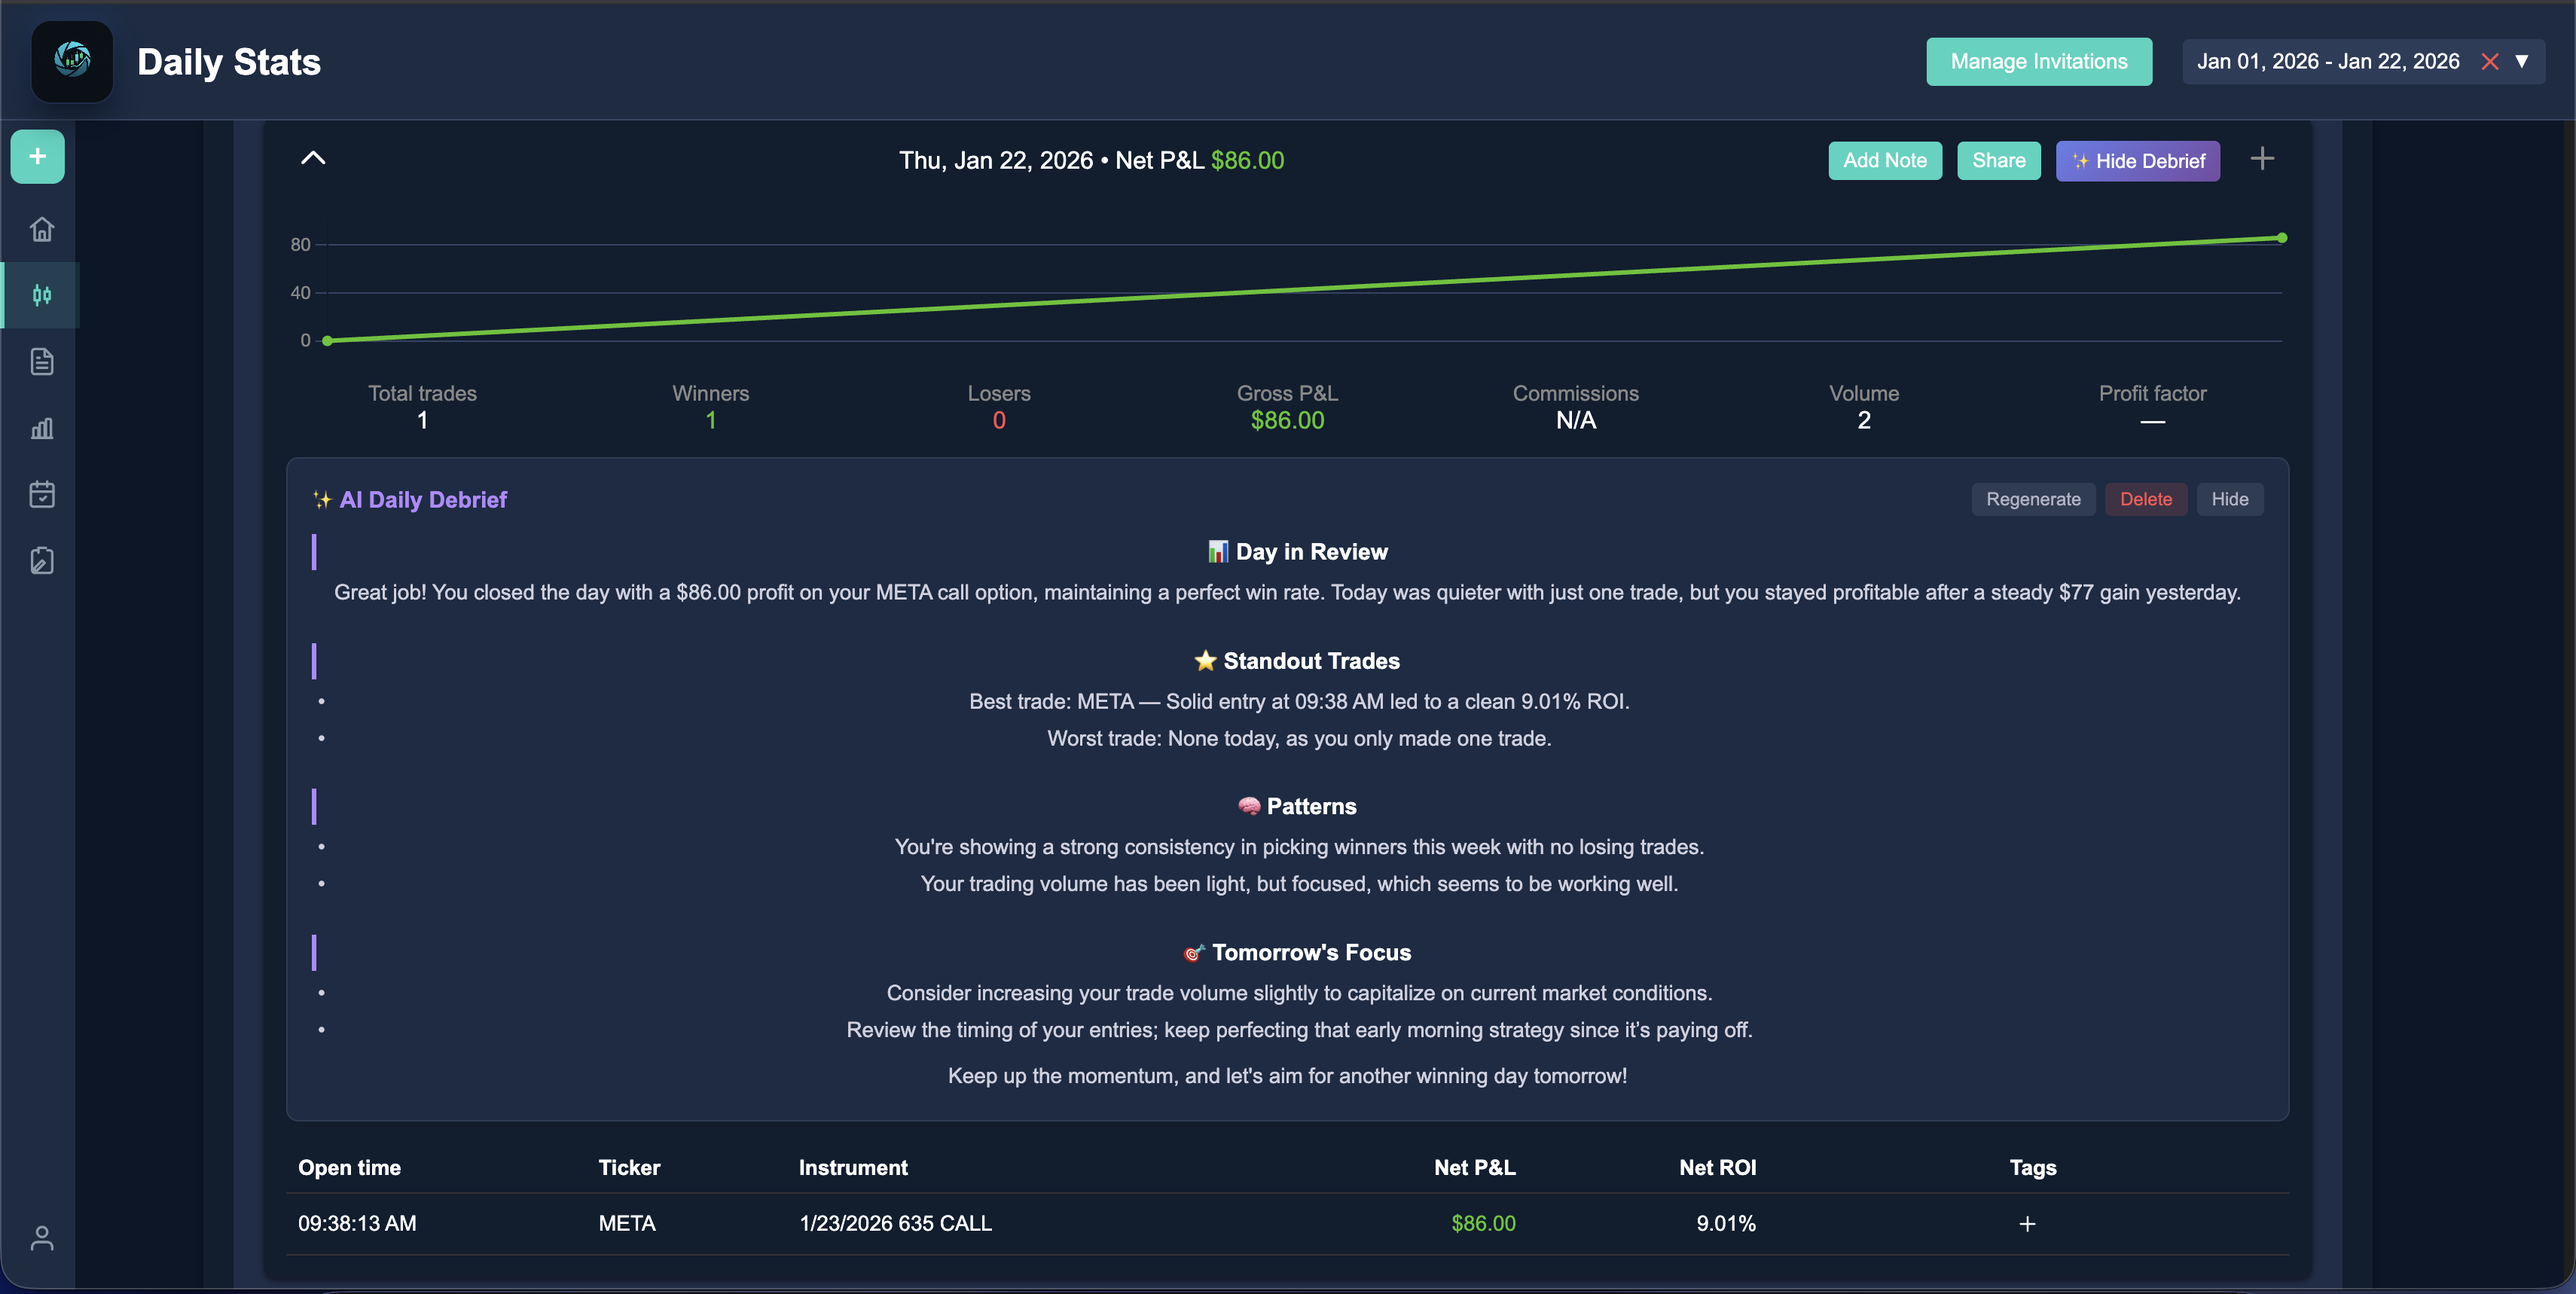
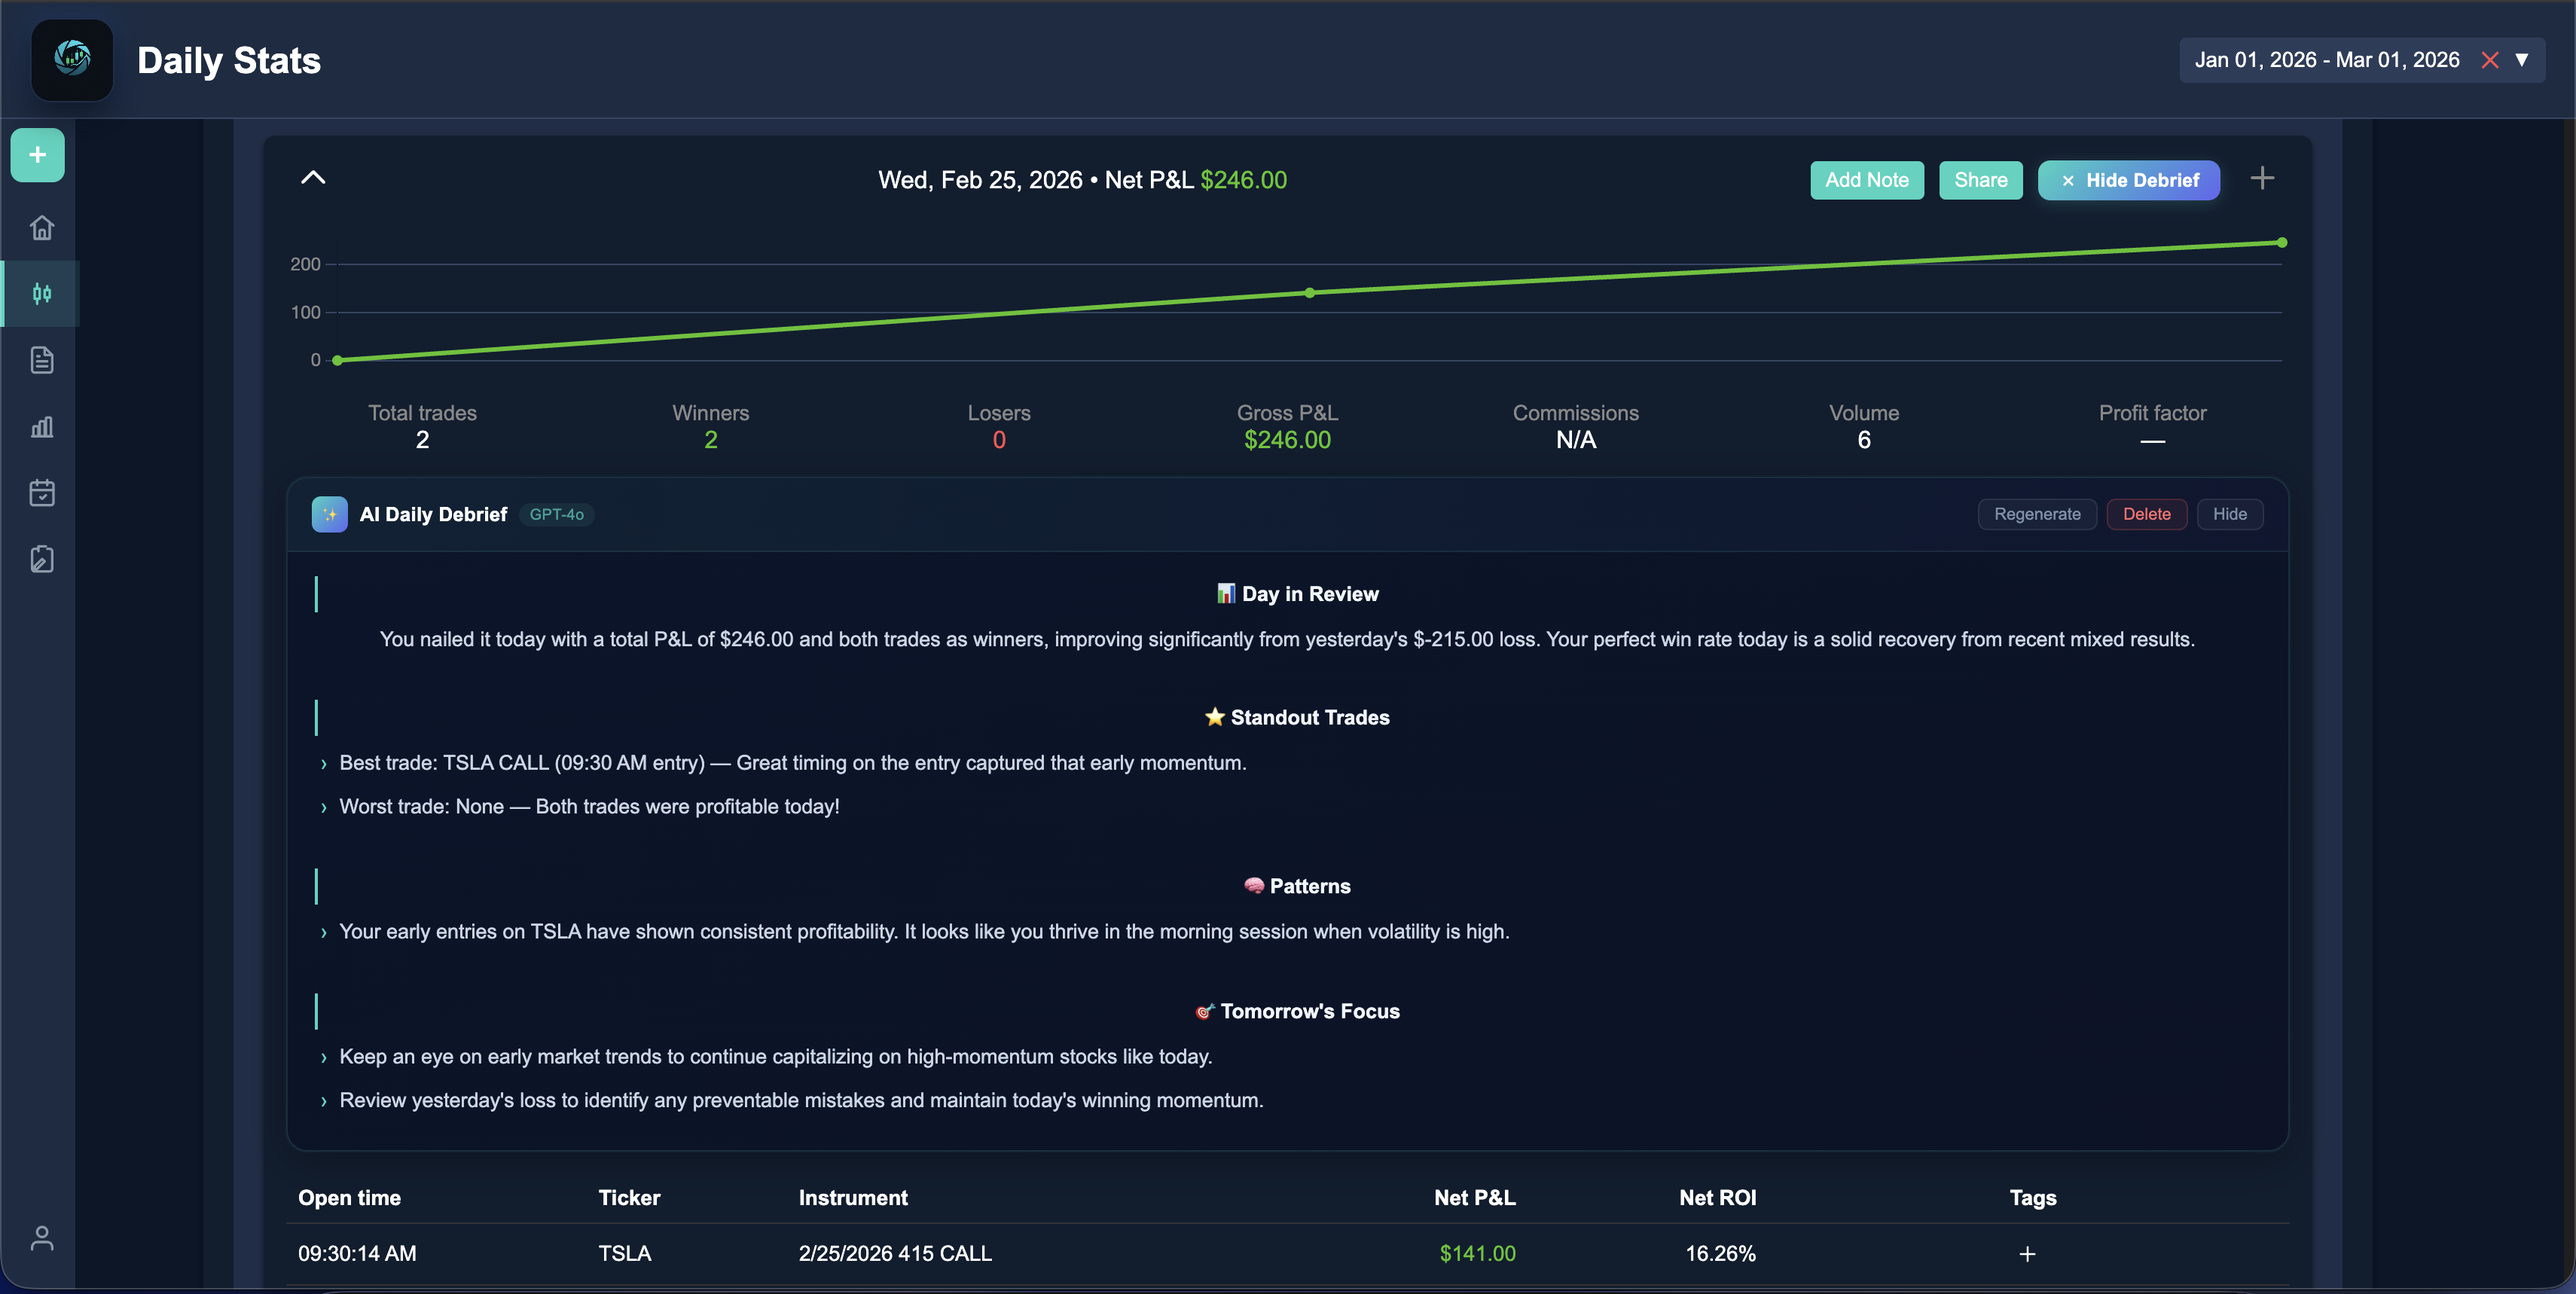
Update app screenshots and improve CLAUDE.md
- Refresh daily-stats, imports, and weekly-review screenshots
- Add missing env vars (SENTRY_DSN, REVENUECAT_WEBHOOK_SECRET), tradingProfile Firestore field, react-quill library, and Sentry to CLAUDE.md

diff --git a/CLAUDE.md b/CLAUDE.md
@@ -29,6 +29,7 @@ Both must run simultaneously for full functionality. Frontend requires `HTTPS=tr
 - Firebase config: `REACT_APP_FIREBASE_API_KEY`, `REACT_APP_FIREBASE_AUTH_DOMAIN`, `REACT_APP_FIREBASE_PROJECT_ID`, `REACT_APP_FIREBASE_STORAGE_BUCKET`, `REACT_APP_FIREBASE_MESSAGING_SENDER_ID`, `REACT_APP_FIREBASE_APP_ID`
 - `REACT_APP_SCHWAB_CLIENT_ID`, `REACT_APP_SCHWAB_REDIRECT_URI`
 - `REACT_APP_WEBULL_CLIENT_ID`, `REACT_APP_WEBULL_REDIRECT_URI`
+- `REACT_APP_SENTRY_DSN` — optional; enables Sentry error tracking (tunneled through production backend to bypass ad blockers)
 
 **`backend/.env`**:
 - `PORT=4242`
@@ -38,6 +39,8 @@ Both must run simultaneously for full functionality. Frontend requires `HTTPS=tr
 - `SCHWAB_CLIENT_ID`, `SCHWAB_CLIENT_SECRET`, `SCHWAB_REDIRECT_URI`
 - `WEBULL_CLIENT_ID`, `WEBULL_CLIENT_SECRET`, `WEBULL_REDIRECT_URI`
 - `OPENAI_API_KEY`
+- `SENTRY_DSN` — optional; enables Sentry on the backend
+- `REVENUECAT_WEBHOOK_SECRET` — required for iOS subscription webhooks
 
 ## Architecture
 
@@ -45,7 +48,7 @@ Both must run simultaneously for full functionality. Frontend requires `HTTPS=tr
 - `stockhours/` — React 19 frontend (Create React App)
 - `backend/` — Express.js API server (`server.js` is the single file containing all endpoints)
 
-Key frontend libraries: **Chart.js** (`react-chartjs-2`) for all data visualizations, **xlsx** for client-side CSV/Excel parsing, **date-fns** for date math, **react-icons** for icons, **styled-components** + inline styles for UI.
+Key frontend libraries: **Chart.js** (`react-chartjs-2`) for all data visualizations, **xlsx** for client-side CSV/Excel parsing, **date-fns** for date math, **react-icons** for icons, **react-quill** for rich-text notes editing, **styled-components** + inline styles for UI.
 
 ### Navigation Model
 React Router (`react-router-dom` v7) handles all routing. Authenticated app screens each have their own URL path (`/dashboard`, `/reports`, `/alltrades`, `/dailystats`, `/imports`, `/settings`, `/weekly-reviews`) — all map to the same `<AppRoutes>` component. `AppRoutes` reads `location.pathname` to decide which screen to render. `setCurrentScreen` in `App.js` tracks only the header title string and does not drive rendering.
@@ -57,7 +60,7 @@ React Router (`react-router-dom` v7) handles all routing. Authenticated app scre
 
 ### State Management
 No Redux. State lives in:
-1. `AuthContext` (`src/contexts/AuthContext.js`) — auth user, subscription status/plan
+1. `AuthContext` (`src/contexts/AuthContext.js`) — auth user, subscription status/plan, trading profile. Exposes `isPro`, `isSubscribed`, `subscriptionPlan`, `tradingProfile`, `profileLoaded`, `refreshTradingProfile`.
 2. `App.js` — global trade data, date range filter, tags, ratings (passed as props to all screens)
 
 ### Data Storage — Firestore
@@ -68,6 +71,7 @@ All user data in a single `users/{uid}` document:
 - `notes` — `{ [dateString]: noteText }`
 - `patternInsights` — persisted AI pattern detection results
 - `setupsTags`, `mistakesTags` — user-defined tag arrays
+- `tradingProfile` — `{ goals: string[], maxLossPercent, targetGainPercent, onboardingCompleted }` — set during onboarding, injected into all AI prompts
 
 Broker OAuth tokens live in subcollections: `users/{uid}/schwabTokens/primary` and `users/{uid}/webullTokens/primary`.
 
@@ -116,6 +120,7 @@ colors: {
 | Schwab API | OAuth broker connection, trade sync |
 | Webull API | OAuth broker connection, trade sync |
 | TradingView | Embedded chart widget in trade detail view |
+| Sentry | Error monitoring — frontend (`@sentry/react`) tunnels events through `POST /api/sentry-tunnel` on the backend to bypass ad blockers |
 
 ## AI Features (all Pro-only, GPT-4o)
 1. **Trade Review** — `POST /api/ai/trade-review` — per-trade coaching
